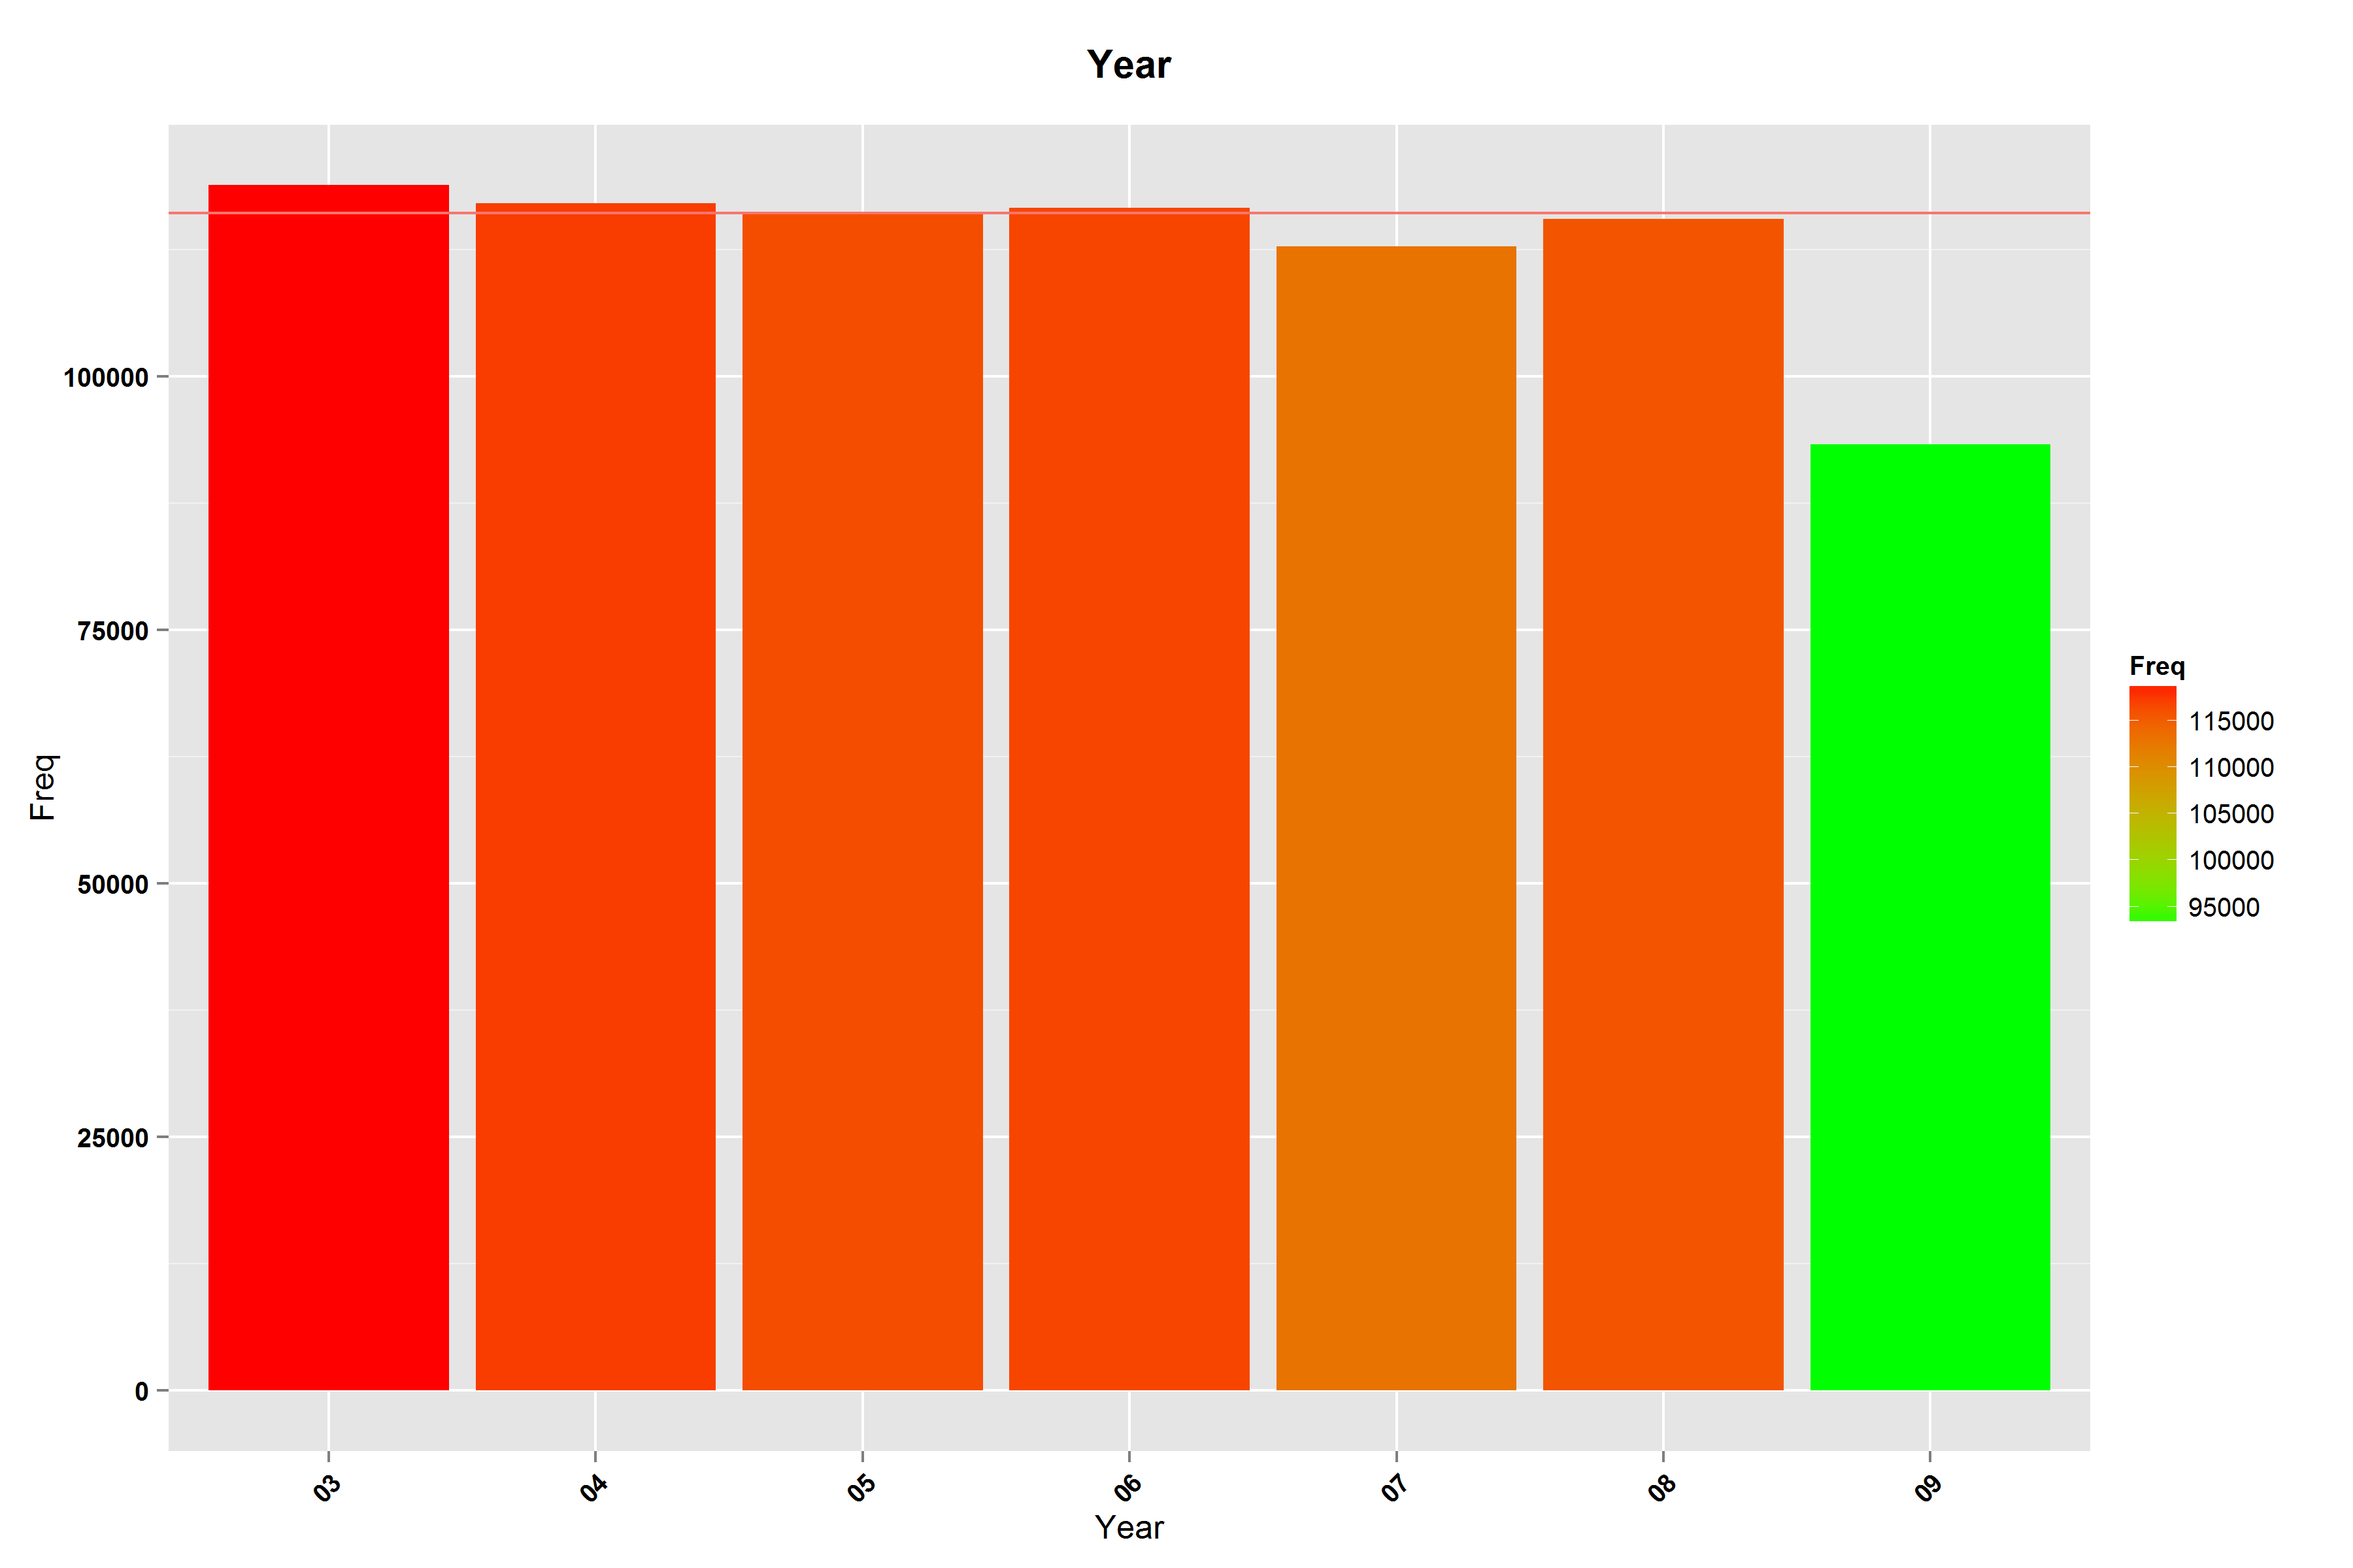
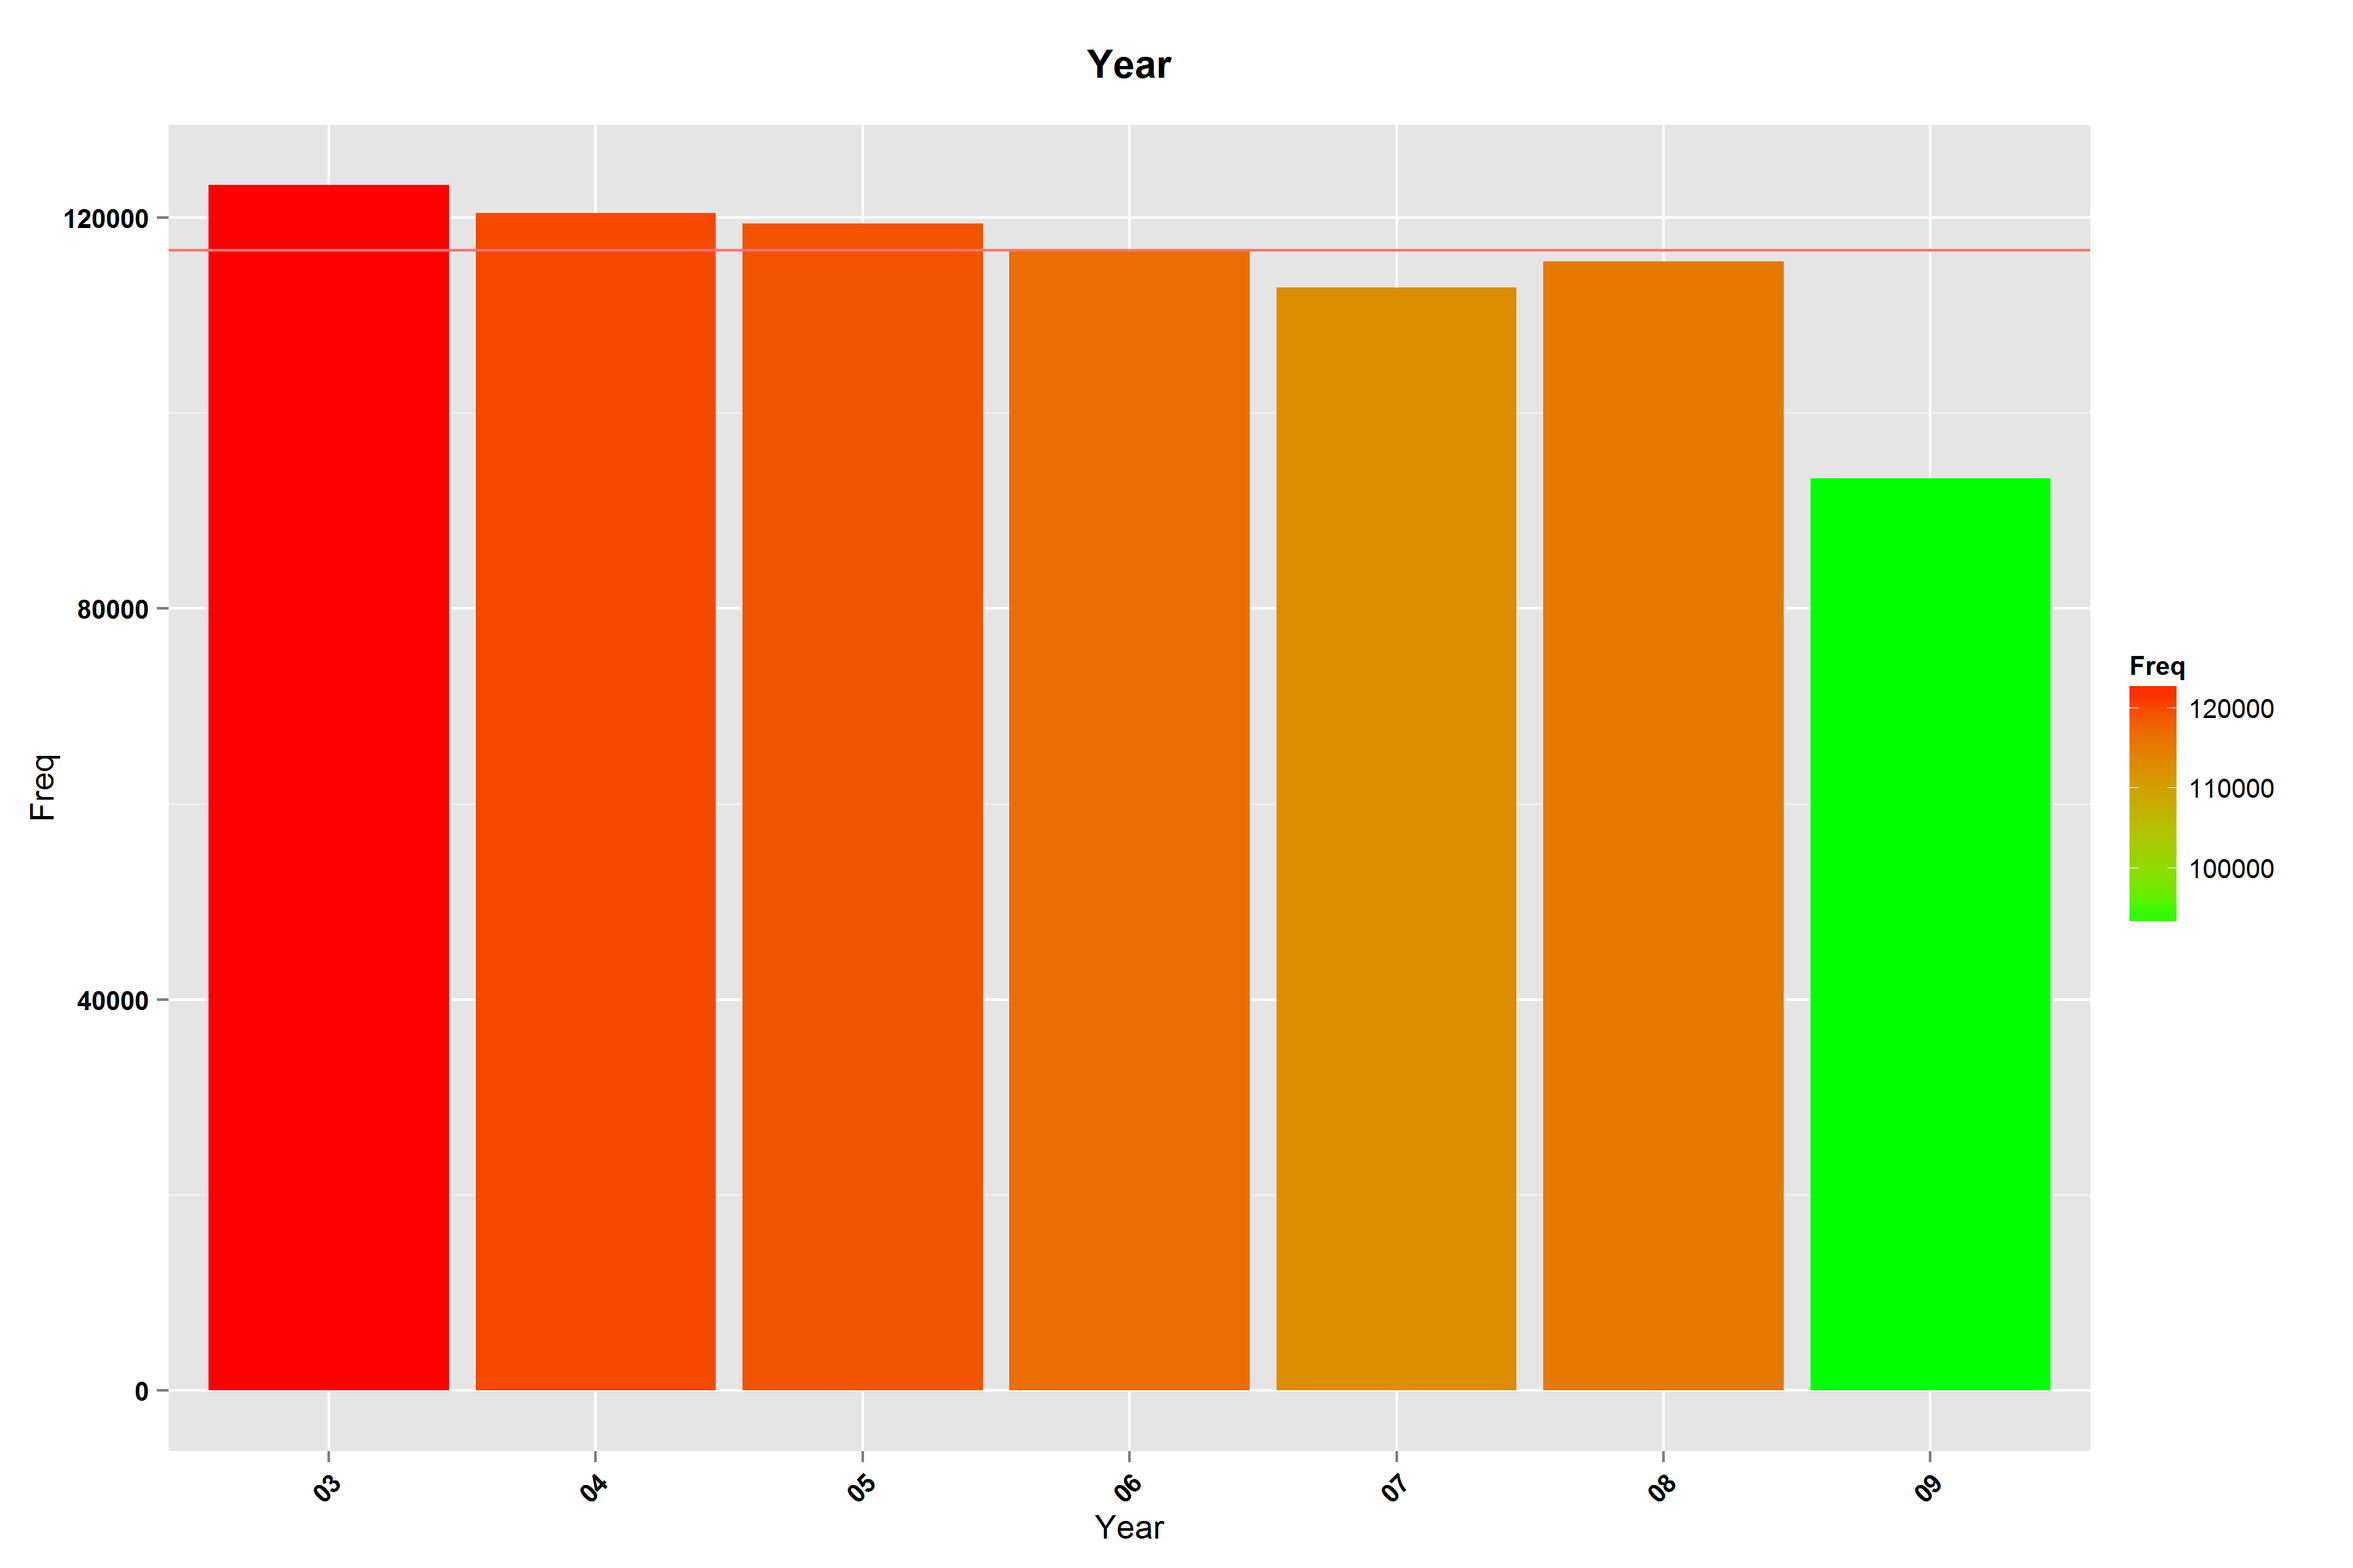
readme

diff --git a/README.md b/README.md
@@ -93,18 +93,23 @@ To answer this we first look of the crime count over the years
 it looks like there is a gentle decline with a big one from 2008 to 2009, by looking at the year with the different months:
 ![](fig/Month-Year.png)
 We can see that 2009 has missing months as July has no crimes and May also have a small number (2965 VS average of  8400)
-In average there is 8,482 crimes each month in 2009, thus we can add the missing month crimes to the total in 2009 and we will ~ 101,784 crimes, this is only an approximation and not including the probably missing data in may
-fitting the standard linear regression model for the number of crimes between 2003-2009 results with a significant trend of -2894 less crimes each year. The trend can be observed from the plot: 
+In average there is 8,482 crimes each month in 2009, thus we can add the missing month crimes to the total in 2009 and we will ~ 101,784 crimes, this is only an approximation and not including the probably missing data in may.
+Using chi-square test it's clear that there is dependences between crime and year.
+Next I tried fitting the standard linear regression model for the number of crimes between 2003-2009 results with a significant trend of -2894 less crimes each year. The trend can be observed from the plot: 
 ![](fig/declineCrime.png)
 The model significance vs. the use of the average (= not fitting a model) results with a p-value of 0.0075
 That result should be taken with care though - standard regression model assumes the observations are independent samples from the same distribution, which is not the case here, as we have a time-series, where there is a dependency between the years.
 Conclusion:
 There is a decline in crime, but its not clear how strong it is, in next steps we will try to find the cause.
+This is the data with the adding of crime to 2009, the blue line the regression line:
+![](fig/YearReg.png)
 
+
+![](fig/Cat-Year.png)
 
 ![](fig/Cat-YearFreq.png)
 
-![](fig/Cat-Year.png)
+![](fig/Year-CatFreq.png)
 
 
 
